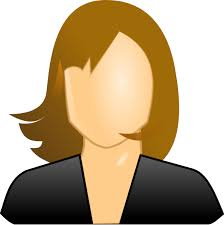
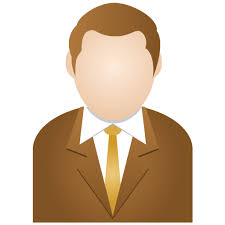
User images

diff --git a/app/controllers/users_controller.rb b/app/controllers/users_controller.rb
@@ -15,7 +15,7 @@ class UsersController < ApplicationController
     @user = User.new(
       name: params[:name],
       email: params[:email],
-      image_name: "default_user.jpg"
+      image_name: "default_user.jpeg"
     )
     
     if @user.save
@@ -32,6 +32,12 @@ class UsersController < ApplicationController
     @user = User.find_by(id: params[:id])
     @user.name = params[:name]
     @user.email = params[:email]
+
+    if params[:image]
+      @user.image_name="#{@user.id}.jpeg"
+      image = params[:image]
+      File.binwrite("public/user_images/#{@user.image_name}", image.read)
+    end
     
     if @user.save
       flash[:notice] = "ユーザー情報を編集しました"
